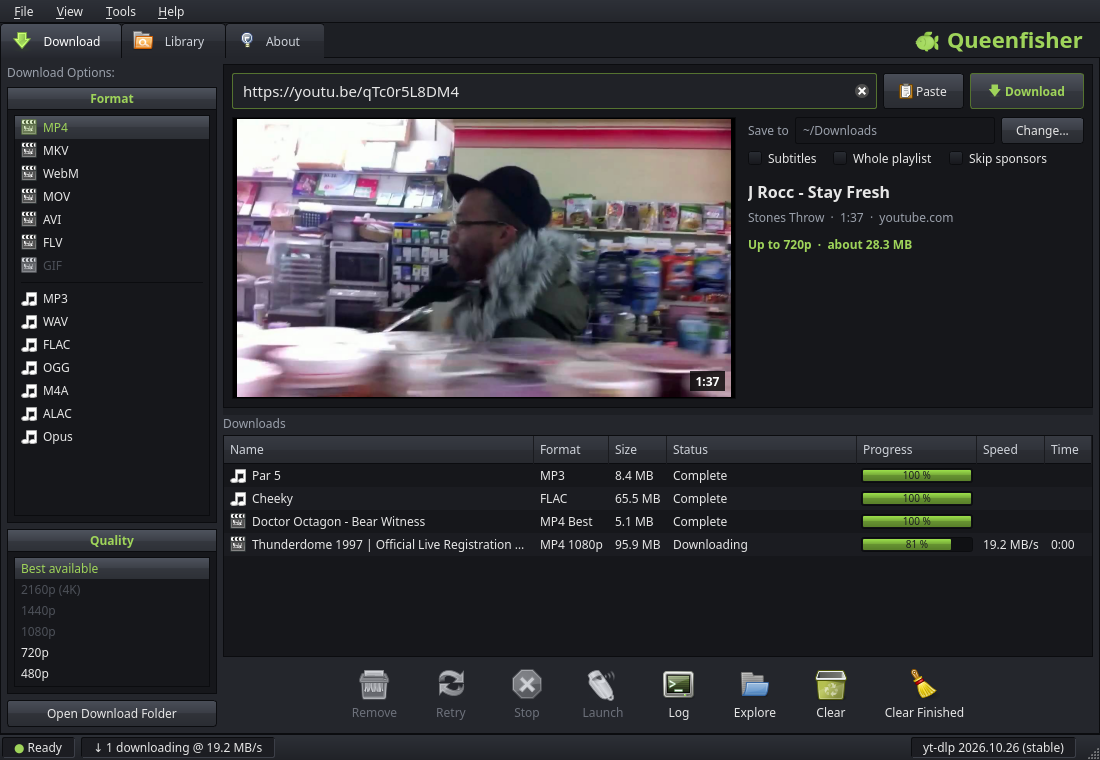
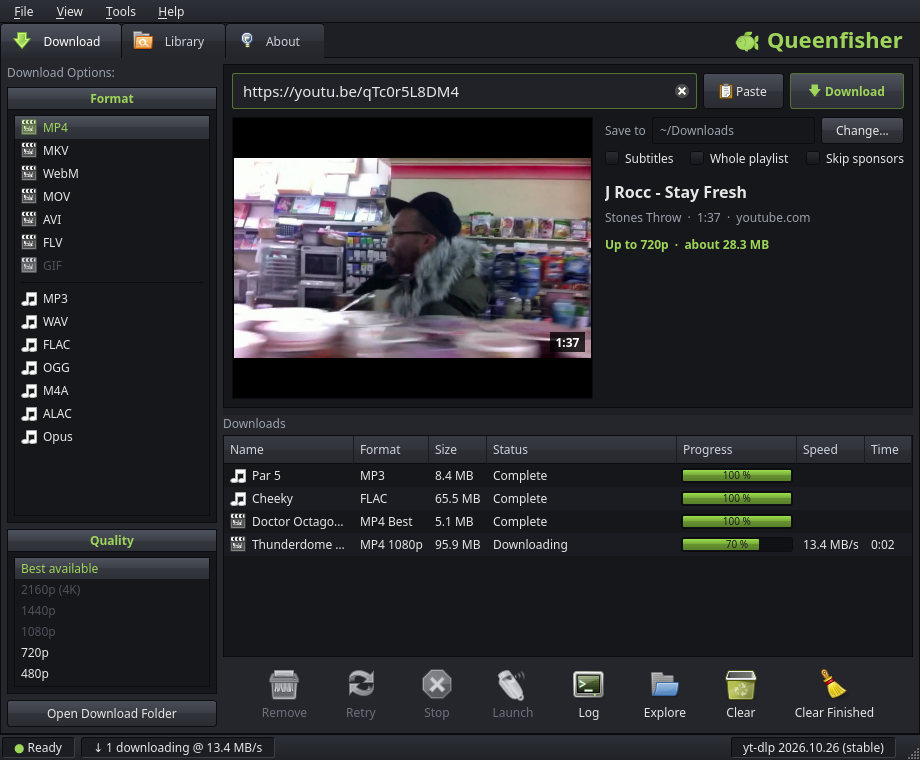
Queenfisher: Download and Library screenshots in their own windows left of the About window (sharp 920 px shots, 2x for high-DPI); About is text only like VirusTotal Quarantine's

diff --git a/projects/queenfisher.html b/projects/queenfisher.html
@@ -10,7 +10,7 @@
 <meta name="darkreader-lock">
 <meta name="theme-color" content="#000000">
 <link rel="canonical" href="https://composersoftware.net/projects/queenfisher">
-<link rel="stylesheet" href="/style.css?v=114">
+<link rel="stylesheet" href="/style.css?v=115">
 <link rel="preload" href="/fonts/Px437_IBM_VGA_8x16.woff2" as="font" type="font/woff2" crossorigin>
 <script src="/site.js?v=103" defer></script>
 </head>
@@ -52,30 +52,42 @@
     </div>
   </section>
 
-  <article class="win project">
-    <header class="win-bar"><h2>About</h2><span class="win-tag">RELEASED</span></header>
-    <div class="win-body">
-      <p class="lead">The most hassle-free way to download videos. Any site, any service, anytime.</p>
-      <p>Queenfisher is a window around yt-dlp, the downloader that keeps up with the sites. It shows
-        you what a video really offers before you download it: the picture, the length, the
-        qualities it has and how big the file will be. Queue up as many as you like and they come
-        down one after another.</p>
-      <a class="shot-wide" href="/images/queenfisher-download.png"><img class="shot" src="/images/queenfisher-download.png" width="1100" height="760"
-        alt="Queenfisher with three finished downloads, one downloading, and a preview of the next video"></a>
-      <ul class="list">
-        <li>14 formats: MP4, MKV, WebM, MOV, AVI, FLV and GIF, or MP3, WAV, FLAC, OGG, M4A, ALAC and the original sound</li>
-        <li>YouTube previews show up almost at once</li>
-        <li>Subtitles, whole playlists, and skipping sponsor segments</li>
-        <li>Keeps yt-dlp up to date by itself and checks the developers' signature first</li>
-        <li>No ads, no accounts, no tracking</li>
-      </ul>
-      <dl class="facts">
-        <dt>Runs on:</dt><dd>Windows 10/11, macOS, Linux</dd>
-        <dt>Written in:</dt><dd>C++, Qt 6</dd>
-        <dt>License:</dt><dd>GPLv3, free and open source</dd>
-      </dl>
+  <div class="about-row">
+    <div class="shot-col">
+      <article class="win shot-win">
+        <header class="win-bar"><h2>Download</h2></header>
+        <a href="/images/queenfisher-download@2x.png"><img src="/images/queenfisher-download.png" srcset="/images/queenfisher-download@2x.png 2x"
+          width="920" height="760" alt="Queenfisher with three finished downloads, one downloading, and a preview of the next video"></a>
+      </article>
+      <article class="win shot-win">
+        <header class="win-bar"><h2>Library</h2></header>
+        <a href="/images/queenfisher-library@2x.png"><img src="/images/queenfisher-library.png" srcset="/images/queenfisher-library@2x.png 2x"
+          width="920" height="760" loading="lazy" alt="The Library tab listing three finished downloads"></a>
+      </article>
     </div>
-  </article>
+    <article class="win project">
+      <header class="win-bar"><h2>About</h2><span class="win-tag">RELEASED</span></header>
+      <div class="win-body">
+        <p class="lead">The most hassle-free way to download videos. Any site, any service, anytime.</p>
+        <p>Queenfisher is a window around yt-dlp, the downloader that keeps up with the sites. It shows
+          you what a video really offers before you download it: the picture, the length, the
+          qualities it has and how big the file will be. Queue up as many as you like and they come
+          down one after another.</p>
+        <ul class="list">
+          <li>14 formats: MP4, MKV, WebM, MOV, AVI, FLV and GIF, or MP3, WAV, FLAC, OGG, M4A, ALAC and the original sound</li>
+          <li>YouTube previews show up almost at once</li>
+          <li>Subtitles, whole playlists, and skipping sponsor segments</li>
+          <li>Keeps yt-dlp up to date by itself and checks the developers' signature first</li>
+          <li>No ads, no accounts, no tracking</li>
+        </ul>
+        <dl class="facts">
+          <dt>Runs on:</dt><dd>Windows 10/11, macOS, Linux</dd>
+          <dt>Written in:</dt><dd>C++, Qt 6</dd>
+          <dt>License:</dt><dd>GPLv3, free and open source</dd>
+        </dl>
+      </div>
+    </article>
+  </div>
 
   <article class="win wide-note">
     <header class="win-bar"><h2>What's new</h2></header>

diff --git a/style.css b/style.css
@@ -224,9 +224,16 @@ footer.site p + p { margin-top: 4px; }
 .list li { padding-left: 2ch; text-indent: -2ch; margin-bottom: 4px; }
 .list li::before { content: "\00bb"; display: inline-block; width: 2ch; text-indent: 0; color: var(--bright-cyan); }
 .shot { display: block; max-width: 100%; height: auto; border: 2px solid var(--blue); align-self: center; }
-/* a wide window screenshot: the window's full width, between the description and the details */
-.shot-wide { display: block; margin: 8px 0 24px; }
-.shot-wide .shot { width: 100%; }
+/* project page: screenshots in their own windows on the left, About on the right */
+.about-row { display: grid; grid-template-columns: 1fr 1fr; gap: 0 32px; align-items: start; margin-bottom: 40px; }
+.about-row .win.project { margin-bottom: 0; }
+.shot-col { display: flex; flex-direction: column; gap: 32px; }
+.shot-win a { display: block; padding: 20px 8px 8px; }
+.shot-win img { display: block; width: 100%; height: auto; }
+@media (max-width: 760px) {
+  .about-row { grid-template-columns: 1fr; gap: 32px; }
+  .shot-col { order: 1; }   /* on phones the description comes first */
+}
 @media (max-width: 760px) {
   .project-body { grid-template-columns: 1fr; }
 }

diff --git a/index.html b/index.html
@@ -14,7 +14,7 @@
 <meta property="og:url" content="https://composersoftware.net/">
 <meta property="og:type" content="website">
 <link rel="canonical" href="https://composersoftware.net/">
-<link rel="stylesheet" href="style.css?v=114">
+<link rel="stylesheet" href="style.css?v=115">
 <link rel="preload" href="/fonts/Px437_IBM_VGA_8x16.woff2" as="font" type="font/woff2" crossorigin>
 <script>
 // title intro (skipped for reduced motion): picked here, before the first paint,

diff --git a/projects/vt-quarantine.html b/projects/vt-quarantine.html
@@ -10,7 +10,7 @@
 <meta name="darkreader-lock">
 <meta name="theme-color" content="#000000">
 <link rel="canonical" href="https://composersoftware.net/projects/vt-quarantine">
-<link rel="stylesheet" href="/style.css?v=114">
+<link rel="stylesheet" href="/style.css?v=115">
 <link rel="preload" href="/fonts/Px437_IBM_VGA_8x16.woff2" as="font" type="font/woff2" crossorigin>
 <script src="/site.js?v=103" defer></script>
 </head>

diff --git a/projects/index.html b/projects/index.html
@@ -10,7 +10,7 @@
 <meta name="darkreader-lock">
 <meta name="theme-color" content="#000000">
 <link rel="canonical" href="https://composersoftware.net/projects/">
-<link rel="stylesheet" href="/style.css?v=114">
+<link rel="stylesheet" href="/style.css?v=115">
 <link rel="preload" href="/fonts/Px437_IBM_VGA_8x16.woff2" as="font" type="font/woff2" crossorigin>
 <script src="/site.js?v=103" defer></script>
 </head>

diff --git a/about/index.html b/about/index.html
@@ -10,7 +10,7 @@
 <meta name="darkreader-lock">
 <meta name="theme-color" content="#000000">
 <link rel="canonical" href="https://composersoftware.net/about/">
-<link rel="stylesheet" href="/style.css?v=114">
+<link rel="stylesheet" href="/style.css?v=115">
 <link rel="preload" href="/fonts/Px437_IBM_VGA_8x16.woff2" as="font" type="font/woff2" crossorigin>
 <script src="/site.js?v=103" defer></script>
 </head>

diff --git a/404.html b/404.html
@@ -10,7 +10,7 @@
 <meta name="darkreader-lock">
 <meta name="theme-color" content="#000000">
 <meta name="robots" content="noindex">
-<link rel="stylesheet" href="/style.css?v=114">
+<link rel="stylesheet" href="/style.css?v=115">
 <link rel="preload" href="/fonts/Px437_IBM_VGA_8x16.woff2" as="font" type="font/woff2" crossorigin>
 </head>
 <body id="top">
